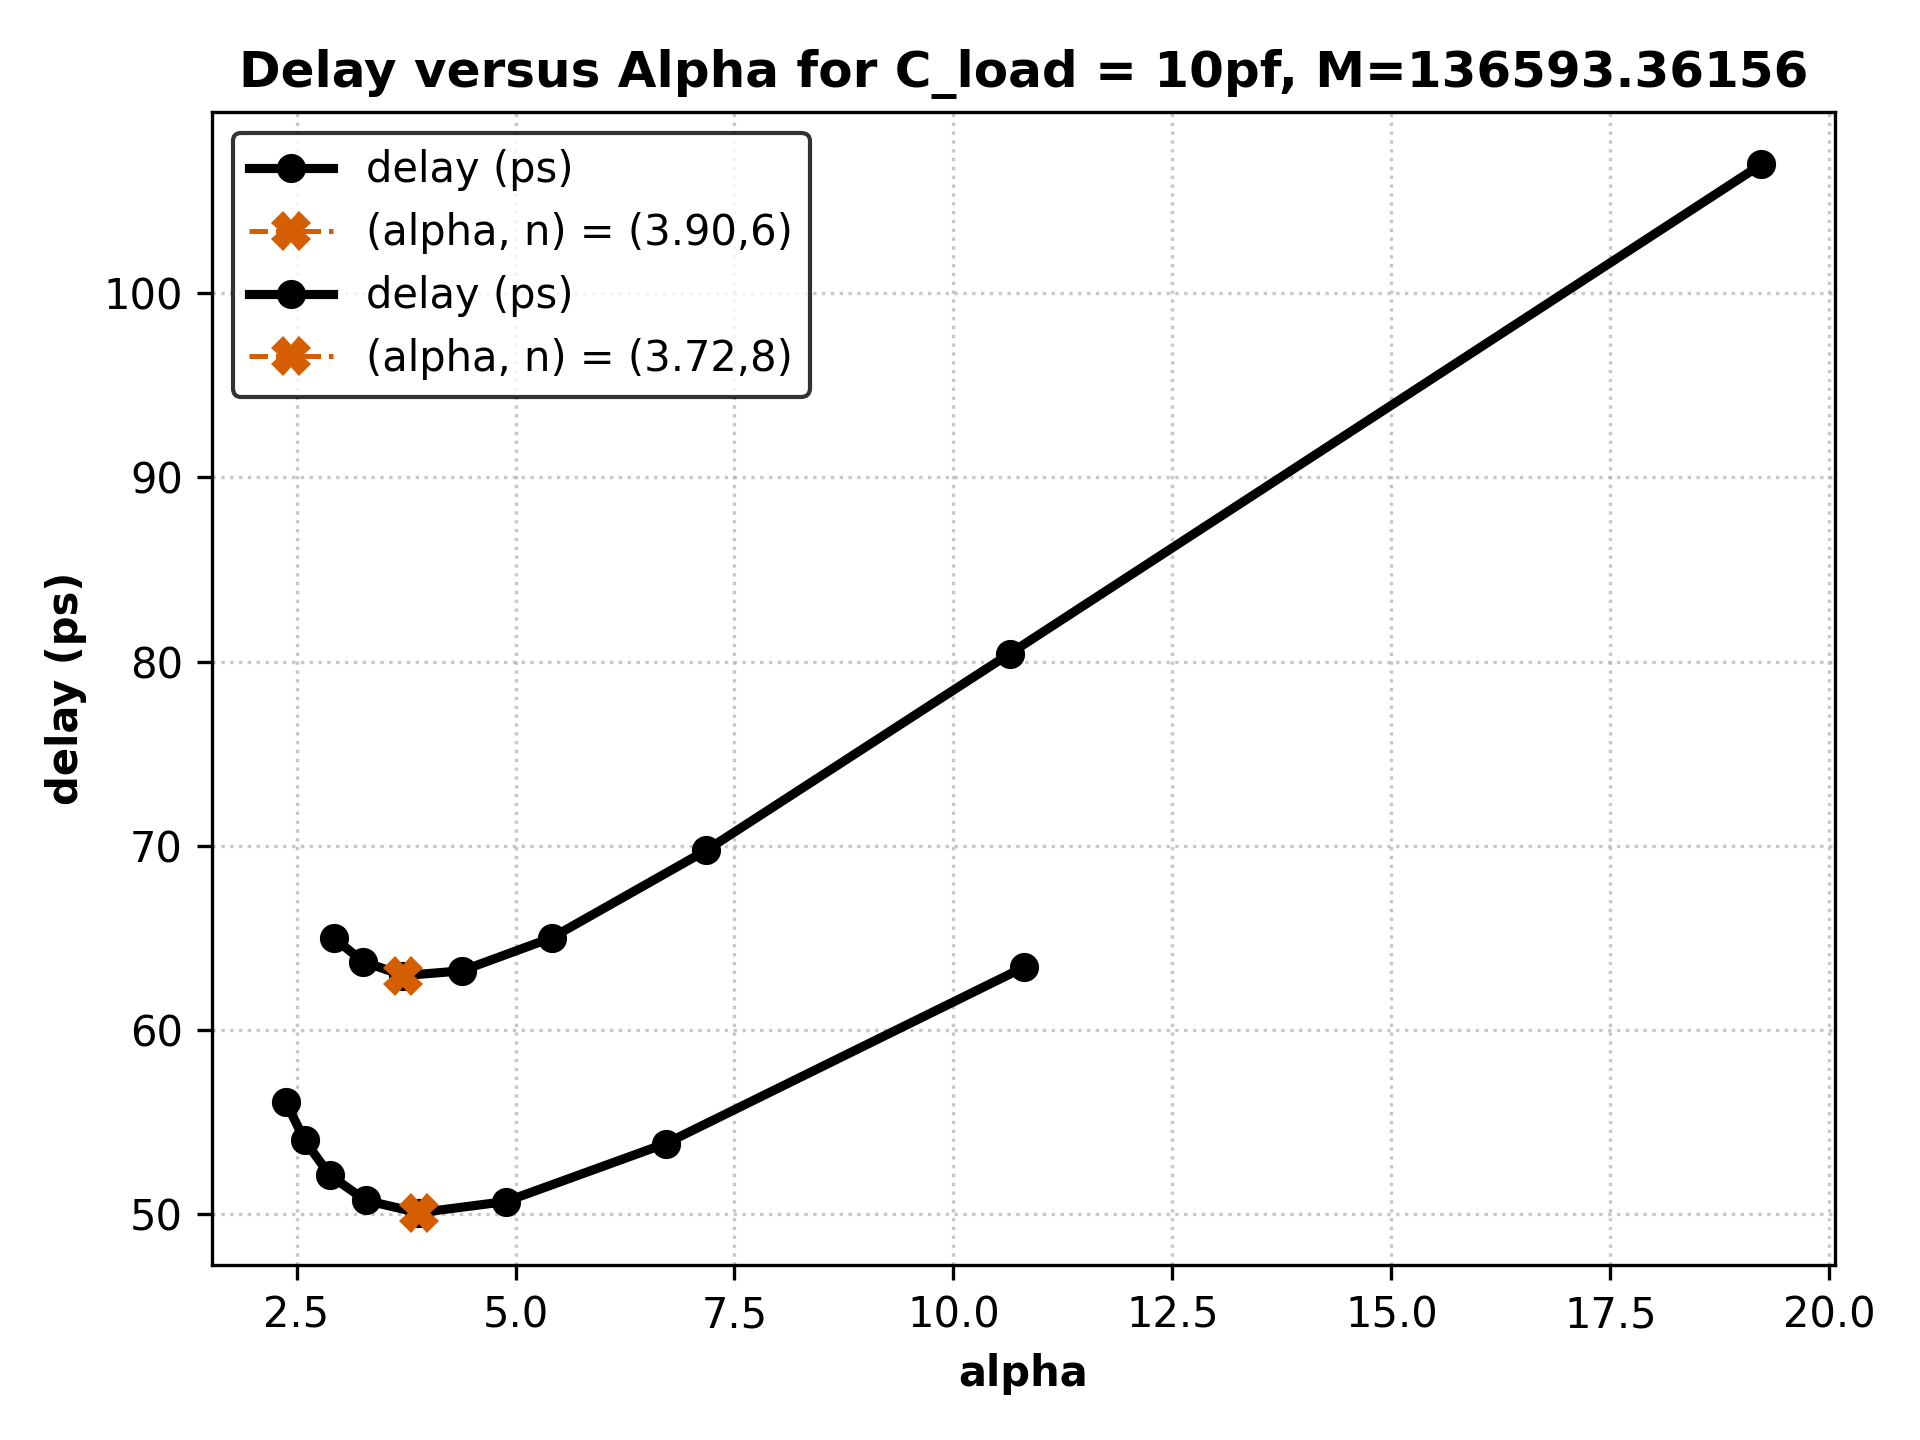
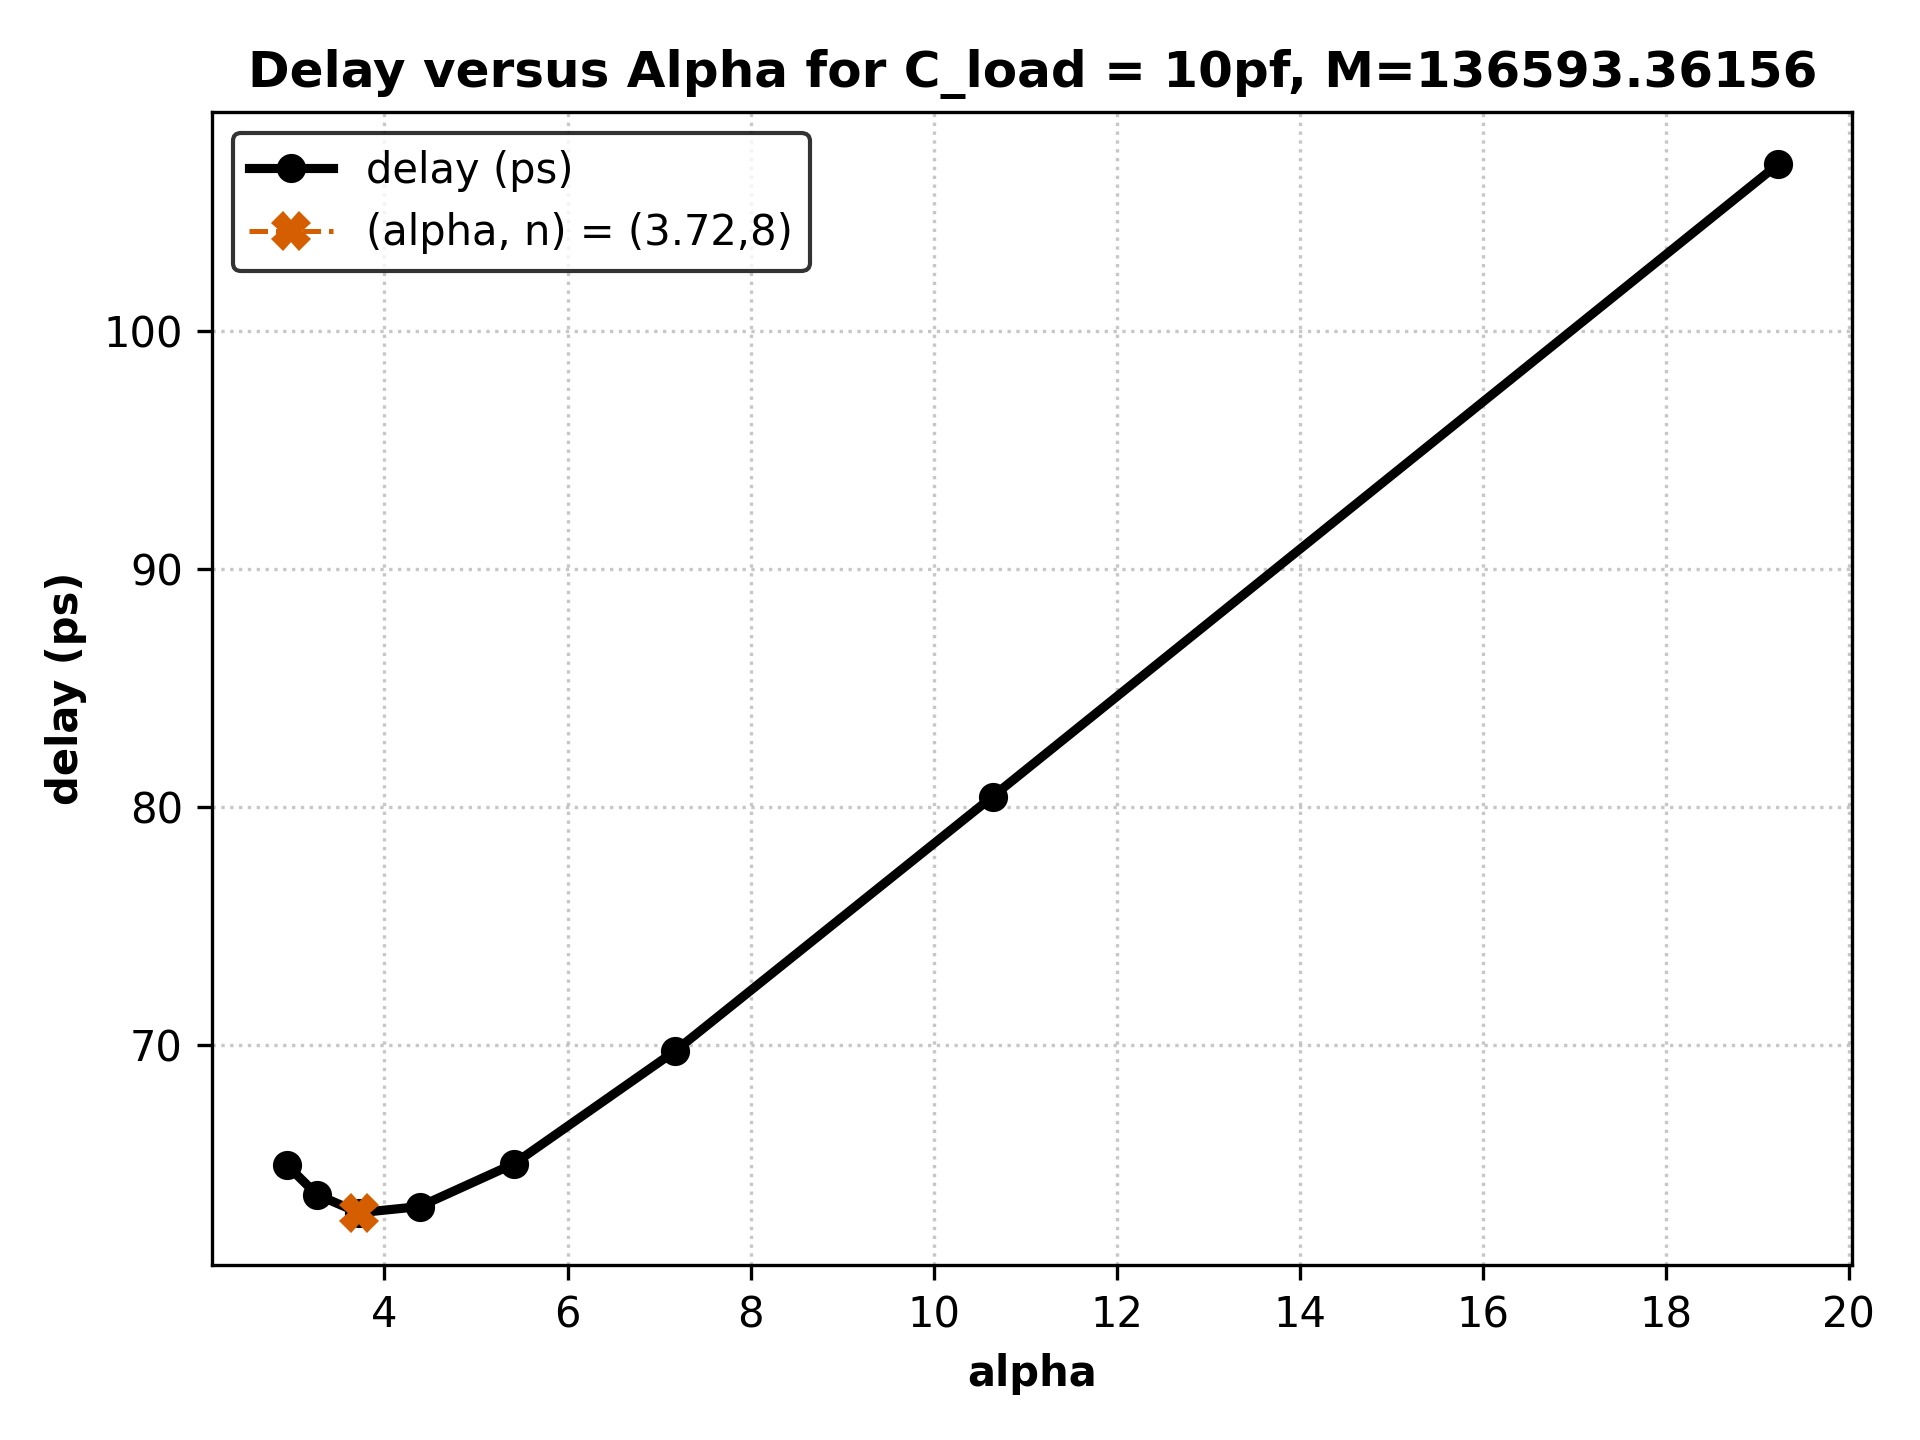
fixing issue with no plt.clf()

diff --git a/inv_chain_builder.py b/inv_chain_builder.py
@@ -174,6 +174,7 @@ V2 vss 0 DC 0.0
             title=f"Delay versus Alpha for C_load = 10pf, M={builder.M:.5f}",
             filename=f"{graph_dir}/{self.base_name}.png"
         )
+        plt.clf()
         return
 
     

diff --git a/results/Exercise_5.md b/results/Exercise_5.md
@@ -1,0 +1,8 @@
+# Exercise 5
+
+Sizing `n` inverters to drive a `1pf` and `10pf` load using incremental size increases by factor alpha. Plotting `delay (ps)` against `(alpha, n)` pairs to determine optimal alpha.
+
+<p align='center'>
+    <img src="../graphs/inv_chain_1pf.png" width=48%>
+    <img src="../graphs/inv_chain_10pf.png" width=48%>
+</p>
